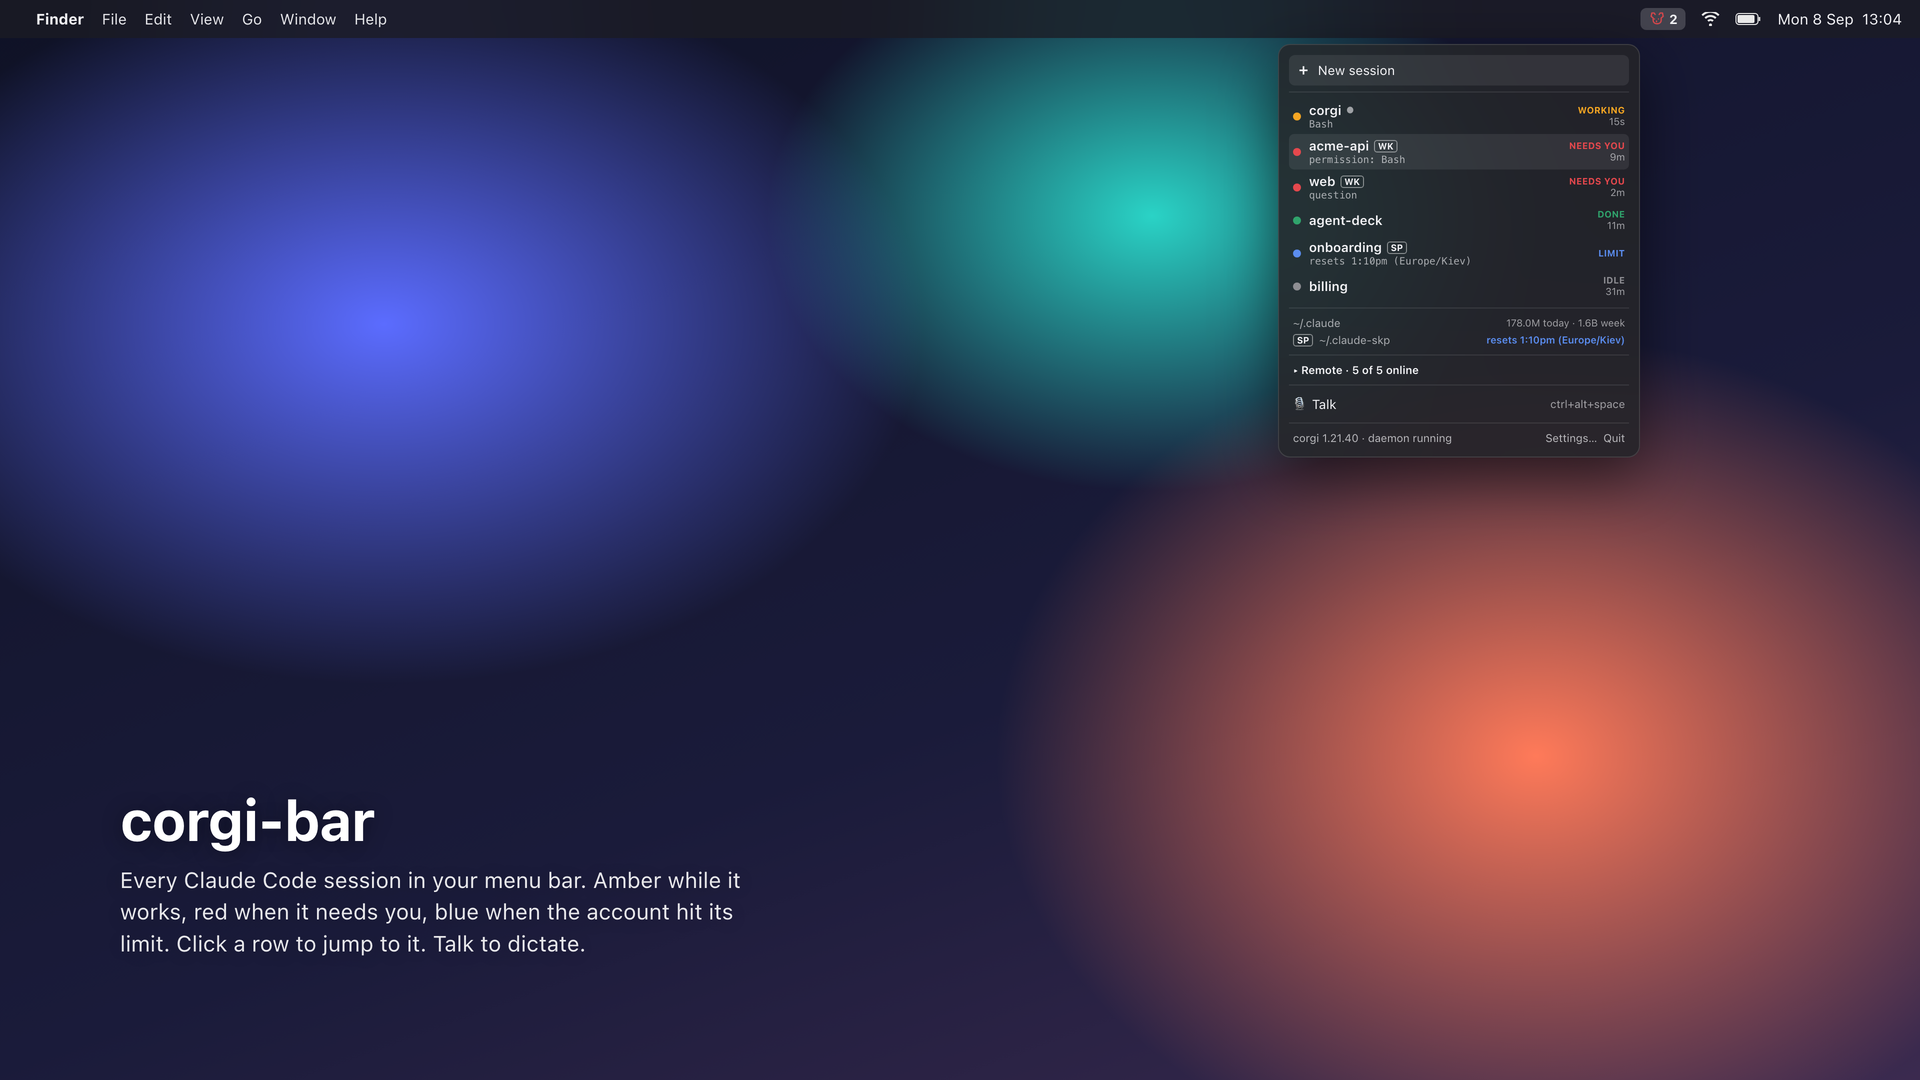
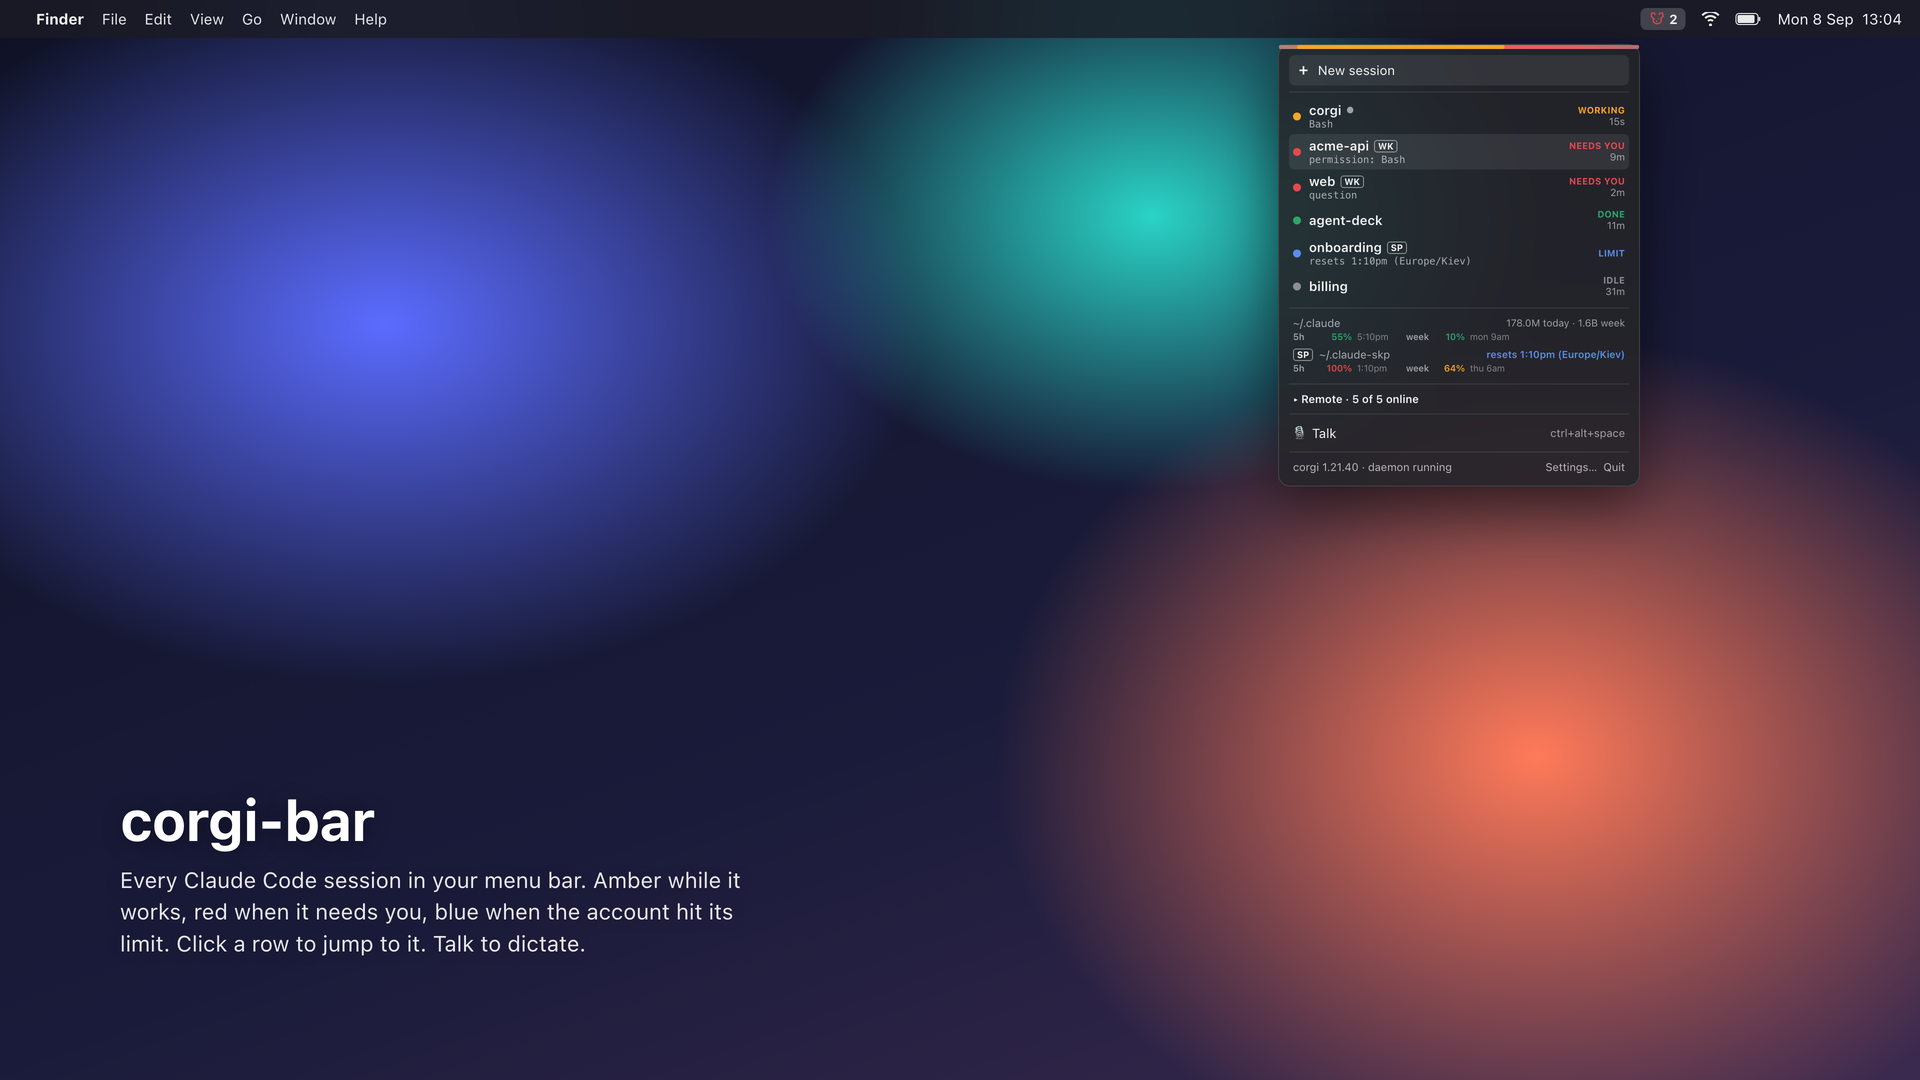
Accounts show the /usage windows: 5-hour and week, percent used, reset time

Changed region(s): [[0.6562, 0.3056, 0.875, 0.4583], [0.6875, 0.0306, 0.8438, 0.0611], [0.75, 0.3056, 0.8438, 0.3361]]

diff --git a/Sources/CorgiBar/App.swift b/Sources/CorgiBar/App.swift
@@ -282,17 +282,27 @@ struct AccountsView: View {
         if !accounts.isEmpty {
             Divider()
             ForEach(accounts) { a in
-                HStack(spacing: 6) {
-                    if !a.chip.isEmpty {
-                        Text(a.chip).font(.system(size: 9, weight: .bold)).padding(.horizontal, 3).padding(.vertical, 1)
-                            .background(RoundedRectangle(cornerRadius: 3).stroke(Color.secondary, lineWidth: 1))
+                VStack(alignment: .leading, spacing: 3) {
+                    HStack(spacing: 6) {
+                        if !a.chip.isEmpty {
+                            Text(a.chip).font(.system(size: 9, weight: .bold)).padding(.horizontal, 3).padding(.vertical, 1)
+                                .background(RoundedRectangle(cornerRadius: 3).stroke(Color.secondary, lineWidth: 1))
+                        }
+                        Text(a.title).font(.system(size: 11)).foregroundStyle(.secondary).lineLimit(1)
+                        Spacer()
+                        if let until = a.limitedUntil {
+                            Text(until).font(.system(size: 10, weight: .semibold)).foregroundStyle(Color(red: 0.36, green: 0.55, blue: 0.94))
+                        } else {
+                            Text("\(formatTokens(a.tokensToday)) today · \(formatTokens(a.tokensWeek)) week").font(.system(size: 10)).foregroundStyle(.secondary)
+                        }
                     }
-                    Text(a.title).font(.system(size: 11)).foregroundStyle(.secondary).lineLimit(1)
-                    Spacer()
-                    if let until = a.limitedUntil {
-                        Text(until).font(.system(size: 10, weight: .semibold)).foregroundStyle(Color(red: 0.36, green: 0.55, blue: 0.94))
+                    if let l = a.limits {
+                        HStack(spacing: 8) {
+                            LimitBar(label: "5h", window: l.fiveHour)
+                            LimitBar(label: "week", window: l.sevenDay)
+                        }
                     } else {
-                        Text("\(formatTokens(a.tokensToday)) today · \(formatTokens(a.tokensWeek)) week").font(.system(size: 10)).foregroundStyle(.secondary)
+                        Text("no usage snapshot — run /usage once under this account").font(.system(size: 9)).foregroundStyle(.tertiary)
                     }
                 }
                 .padding(.horizontal, 4)
@@ -337,5 +347,45 @@ struct RemoteView: View {
                 Text("Remote · \(online) of \(watcher.status.workspaces.count) online").font(.system(size: 11, weight: .semibold))
             }
         }
+    }
+}
+
+
+/// One rolling limit as /usage shows it: a thin bar, the percent, the reset time.
+struct LimitBar: View {
+    var label: String
+    var window: AgentStatus.Limits.Window
+
+    var body: some View {
+        HStack(spacing: 4) {
+            Text(label).font(.system(size: 9, weight: .semibold)).foregroundStyle(.secondary).frame(width: 26, alignment: .leading)
+            GeometryReader { g in
+                ZStack(alignment: .leading) {
+                    Capsule().fill(Color.primary.opacity(0.12))
+                    Capsule().fill(color).frame(width: max(2, g.size.width * CGFloat(min(100, max(0, window.percent))) / 100))
+                }
+            }
+            .frame(height: 4)
+            Text("\(window.percent)%").font(.system(size: 9, weight: .semibold)).foregroundStyle(color).frame(width: 30, alignment: .trailing)
+            if let at = window.resetsAt {
+                Text(LimitBar.resetText(at)).font(.system(size: 9)).foregroundStyle(.tertiary)
+            }
+        }
+    }
+
+    private var color: Color {
+        switch window.percent {
+        case 90...: return Color(red: 0.90, green: 0.28, blue: 0.30)
+        case 70..<90: return Color(red: 0.96, green: 0.65, blue: 0.14)
+        default: return Color(red: 0.19, green: 0.64, blue: 0.42)
+        }
+    }
+
+    /// "5:10pm" for today, "Tue 9am" further out.
+    static func resetText(_ at: Date) -> String {
+        let f = DateFormatter()
+        f.locale = Locale(identifier: "en_US_POSIX")
+        f.dateFormat = Calendar.current.isDateInToday(at) ? "h:mma" : "EEE ha"
+        return f.string(from: at).lowercased()
     }
 }

diff --git a/Sources/CorgiBar/AgentStatus.swift b/Sources/CorgiBar/AgentStatus.swift
@@ -18,15 +18,31 @@ struct AgentStatus: Decodable {
         var tokensToday: Int64
         var tokensWeek: Int64
     }
+    /// The /usage picture Claude Code last cached for one account.
+    struct Limits: Decodable {
+        struct Window: Decodable {
+            var percent: Int
+            var resetsAt: Date?
+        }
+        var fetchedAt: Date?
+        var fiveHour: Window
+        var sevenDay: Window
+    }
+    struct AccountLimits: Decodable {
+        var profile: String
+        var configDir: String?
+        var limits: Limits?
+    }
     var running: Bool = false
     var version: String?
     var workspaces: [Workspace] = []
     var usage: [Usage] = []
+    var accountLimits: [AccountLimits] = []
     var dashboardUrl: String?
 
     static let empty = AgentStatus()
 
-    enum CodingKeys: String, CodingKey { case running, version, workspaces, usage, dashboardUrl }
+    enum CodingKeys: String, CodingKey { case running, version, workspaces, usage, accounts, dashboardUrl }
     init() {}
     init(from decoder: Decoder) throws {
         let c = try decoder.container(keyedBy: CodingKeys.self)
@@ -34,6 +50,7 @@ struct AgentStatus: Decodable {
         version = try c.decodeIfPresent(String.self, forKey: .version)
         workspaces = try c.decodeIfPresent([Workspace].self, forKey: .workspaces) ?? []
         usage = try c.decodeIfPresent([Usage].self, forKey: .usage) ?? []
+        accountLimits = try c.decodeIfPresent([AccountLimits].self, forKey: .accounts) ?? []
         dashboardUrl = try c.decodeIfPresent(String.self, forKey: .dashboardUrl)
     }
 
@@ -45,6 +62,7 @@ struct AgentStatus: Decodable {
         var tokensToday: Int64
         var tokensWeek: Int64
         var limitedUntil: String?
+        var limits: Limits?
         var id: String { profile }
         var chip: String { profile == "default" ? "" : String(profile.prefix(2)).uppercased() }
         var title: String { profile == "default" ? "~/.claude" : (configDir as NSString).abbreviatingWithTildeInPath }
@@ -58,6 +76,11 @@ struct AgentStatus: Decodable {
             a.tokensToday += u.tokensToday
             a.tokensWeek += u.tokensWeek
             byProfile[profile] = a
+        }
+        for l in accountLimits {
+            var a = byProfile[l.profile] ?? Account(profile: l.profile, configDir: l.configDir ?? "", tokensToday: 0, tokensWeek: 0)
+            a.limits = l.limits
+            byProfile[l.profile] = a
         }
         for s in board.sessions where s.status == .limited {
             let profile = s.profile ?? "default"

diff --git a/Tests/CorgiBarTests/BoardTests.swift b/Tests/CorgiBarTests/BoardTests.swift
@@ -47,8 +47,13 @@ final class BoardTests: XCTestCase {
     }
 
     func testAccountsGroupUsageByConfigDirAndCarryTheLimit() throws {
-        let json = #"{"running":true,"version":"1.21.40","workspaces":[{"workspaceId":"corgi","running":true}],"usage":[{"workspaceId":"corgi","configDir":"","tokensToday":10,"tokensWeek":100},{"workspaceId":"idid","configDir":"","tokensToday":5,"tokensWeek":50},{"workspaceId":"onboarding","configDir":"/Users/me/.claude-skp","tokensToday":7,"tokensWeek":70}],"dashboardUrl":"https://x.example"}"#
-        let status = try JSONDecoder().decode(AgentStatus.self, from: json.data(using: .utf8)!)
+        let json = #"{"running":true,"version":"1.21.41","workspaces":[{"workspaceId":"corgi","running":true}],"usage":[{"workspaceId":"corgi","configDir":"","tokensToday":10,"tokensWeek":100},{"workspaceId":"idid","configDir":"","tokensToday":5,"tokensWeek":50},{"workspaceId":"onboarding","configDir":"/Users/me/.claude-skp","tokensToday":7,"tokensWeek":70}],"accounts":[{"profile":"default","limits":{"fetchedAt":"2026-09-08T13:35:22.38+03:00","fiveHour":{"percent":55,"resetsAt":"2026-09-08T14:10:00.244Z"},"sevenDay":{"percent":10,"resetsAt":"2026-09-15T06:00:00.244018Z"}}},{"profile":"skp","configDir":"/Users/me/.claude-skp"}],"dashboardUrl":"https://x.example"}"#
+        let decoder = JSONDecoder()
+        decoder.dateDecodingStrategy = .custom { d in
+            let raw = try d.singleValueContainer().decode(String.self)
+            return Board.parseDate(raw) ?? Date.distantPast
+        }
+        let status = try decoder.decode(AgentStatus.self, from: json.data(using: .utf8)!)
         var board = try fixture()
         board.sessions[2].status = .limited
         board.sessions[2].profile = "skp"
@@ -59,6 +64,10 @@ final class BoardTests: XCTestCase {
         XCTAssertEqual(accounts[0].chip, "")
         XCTAssertEqual(accounts[1].chip, "SK")
         XCTAssertEqual(accounts[1].limitedUntil, "resets 1:10pm")
+        XCTAssertEqual(accounts[0].limits?.fiveHour.percent, 55)
+        XCTAssertEqual(accounts[0].limits?.sevenDay.percent, 10)
+        XCTAssertNotNil(accounts[0].limits?.fiveHour.resetsAt)
+        XCTAssertNil(accounts[1].limits)
         XCTAssertEqual(formatTokens(167_252_038), "167.3M")
         XCTAssertEqual(formatTokens(2_613_997_951), "2.6B")
         XCTAssertEqual(formatTokens(950), "950")

diff --git a/docs/media/hero.html b/docs/media/hero.html
@@ -26,6 +26,9 @@
   .right{text-align:right}.status{font-size:9px;font-weight:700;letter-spacing:.3px}.elapsed{font-size:10px;opacity:.6}
   .acct{display:flex;align-items:center;gap:6px;padding:2px 4px;font-size:11px}.acct .path{opacity:.65;flex:1}.acct .use{font-size:10px;opacity:.6}.acct .limit{font-size:10px;font-weight:600;color:#5B8DEF}
   .acct .chip{margin:0}
+  .bars{display:flex;align-items:center;gap:5px;padding:0 4px 4px 4px;font-size:9px}
+  .bars .lbl{width:24px;font-weight:600;opacity:.6}.bars .bar{flex:1;height:4px;border-radius:2px;background:rgba(255,255,255,.12);overflow:hidden}.bars .bar i{display:block;height:100%;border-radius:2px}
+  .bars .pct{width:30px;text-align:right;font-weight:600}.bars .at{opacity:.45;width:44px}
   .remote{font-size:11px;font-weight:600;padding:2px 4px}
   .talk{display:flex;align-items:center;gap:6px;padding:4px}.hot{margin-left:auto;font-size:11px;opacity:.6}
   .foot{display:flex;justify-content:space-between;font-size:11px;opacity:.7;padding:2px 4px}
@@ -100,7 +103,11 @@
 </div>
   <hr>
   <div class="acct"><span class="path">~/.claude</span><span class="use">178.0M today · 1.6B week</span></div>
+  <div class="bars"><span class="lbl">5h</span><span class="bar"><i style="width:55%;background:#30A46C"></i></span><span class="pct" style="color:#30A46C">55%</span><span class="at">5:10pm</span>
+    <span class="lbl">week</span><span class="bar"><i style="width:10%;background:#30A46C"></i></span><span class="pct" style="color:#30A46C">10%</span><span class="at">mon 9am</span></div>
   <div class="acct"><span class="chip">SP</span><span class="path">~/.claude-skp</span><span class="limit">resets 1:10pm (Europe/Kiev)</span></div>
+  <div class="bars"><span class="lbl">5h</span><span class="bar"><i style="width:100%;background:#E5484D"></i></span><span class="pct" style="color:#E5484D">100%</span><span class="at">1:10pm</span>
+    <span class="lbl">week</span><span class="bar"><i style="width:64%;background:#F5A623"></i></span><span class="pct" style="color:#F5A623">64%</span><span class="at">thu 6am</span></div>
   <hr>
   <div class="remote">▸ Remote · 5 of 5 online</div>
   <hr>

diff --git a/docs/media/notification.html b/docs/media/notification.html
@@ -26,6 +26,9 @@
   .right{text-align:right}.status{font-size:9px;font-weight:700;letter-spacing:.3px}.elapsed{font-size:10px;opacity:.6}
   .acct{display:flex;align-items:center;gap:6px;padding:2px 4px;font-size:11px}.acct .path{opacity:.65;flex:1}.acct .use{font-size:10px;opacity:.6}.acct .limit{font-size:10px;font-weight:600;color:#5B8DEF}
   .acct .chip{margin:0}
+  .bars{display:flex;align-items:center;gap:5px;padding:0 4px 4px 4px;font-size:9px}
+  .bars .lbl{width:24px;font-weight:600;opacity:.6}.bars .bar{flex:1;height:4px;border-radius:2px;background:rgba(255,255,255,.12);overflow:hidden}.bars .bar i{display:block;height:100%;border-radius:2px}
+  .bars .pct{width:30px;text-align:right;font-weight:600}.bars .at{opacity:.45;width:44px}
   .remote{font-size:11px;font-weight:600;padding:2px 4px}
   .talk{display:flex;align-items:center;gap:6px;padding:4px}.hot{margin-left:auto;font-size:11px;opacity:.6}
   .foot{display:flex;justify-content:space-between;font-size:11px;opacity:.7;padding:2px 4px}

diff --git a/docs/media/quiet.html b/docs/media/quiet.html
@@ -26,6 +26,9 @@
   .right{text-align:right}.status{font-size:9px;font-weight:700;letter-spacing:.3px}.elapsed{font-size:10px;opacity:.6}
   .acct{display:flex;align-items:center;gap:6px;padding:2px 4px;font-size:11px}.acct .path{opacity:.65;flex:1}.acct .use{font-size:10px;opacity:.6}.acct .limit{font-size:10px;font-weight:600;color:#5B8DEF}
   .acct .chip{margin:0}
+  .bars{display:flex;align-items:center;gap:5px;padding:0 4px 4px 4px;font-size:9px}
+  .bars .lbl{width:24px;font-weight:600;opacity:.6}.bars .bar{flex:1;height:4px;border-radius:2px;background:rgba(255,255,255,.12);overflow:hidden}.bars .bar i{display:block;height:100%;border-radius:2px}
+  .bars .pct{width:30px;text-align:right;font-weight:600}.bars .at{opacity:.45;width:44px}
   .remote{font-size:11px;font-weight:600;padding:2px 4px}
   .talk{display:flex;align-items:center;gap:6px;padding:4px}.hot{margin-left:auto;font-size:11px;opacity:.6}
   .foot{display:flex;justify-content:space-between;font-size:11px;opacity:.7;padding:2px 4px}

diff --git a/Sources/CorgiBar/BoardWatcher.swift b/Sources/CorgiBar/BoardWatcher.swift
@@ -33,7 +33,13 @@ final class BoardWatcher: ObservableObject {
         statusFetchedAt = Date()
         DispatchQueue.global(qos: .utility).async {
             let r = Corgi.shared.run(["agent", "status", "--json"])
-            guard r.ok, let data = r.stdout.data(using: .utf8), let status = try? JSONDecoder().decode(AgentStatus.self, from: data) else { return }
+            let decoder = JSONDecoder()
+            decoder.dateDecodingStrategy = .custom { d in
+                let raw = try d.singleValueContainer().decode(String.self)
+                guard let date = Board.parseDate(raw) else { throw DecodingError.dataCorruptedError(in: try d.singleValueContainer(), debugDescription: raw) }
+                return date
+            }
+            guard r.ok, let data = r.stdout.data(using: .utf8), let status = try? decoder.decode(AgentStatus.self, from: data) else { return }
             DispatchQueue.main.async { self.status = status }
         }
     }

diff --git a/README.md b/README.md
@@ -8,7 +8,7 @@ opens a `claude` terminal in the window in front, under that folder's
 account. **Talk** (or `ctrl+alt+space` anywhere) dictates into the session
 in front of you: press to talk, press again to send.
 
-Below the sessions: one line per Claude account (`~/.claude`, `~/.claude-work`, …) with tokens today and this week, or the reset time when that account hit its usage limit. Then the remote sessions corgi supervises per workspace — online or not, Open, Start/Stop — and the phone dashboard.
+Below the sessions: one block per Claude account (`~/.claude`, `~/.claude-work`, …): tokens today and this week, and the same two bars `/usage` shows — the 5-hour window and the week, percent used and when each resets — read from what Claude Code last cached. When an account hit its limit, the reset time replaces the tokens. Then the remote sessions corgi supervises per workspace — online or not, Open, Start/Stop — and the phone dashboard.
 
 ![corgi-bar open in the menu bar: sessions with their state, accounts with token usage and a limit reset, remote sessions, Talk](docs/media/hero.png)
 
